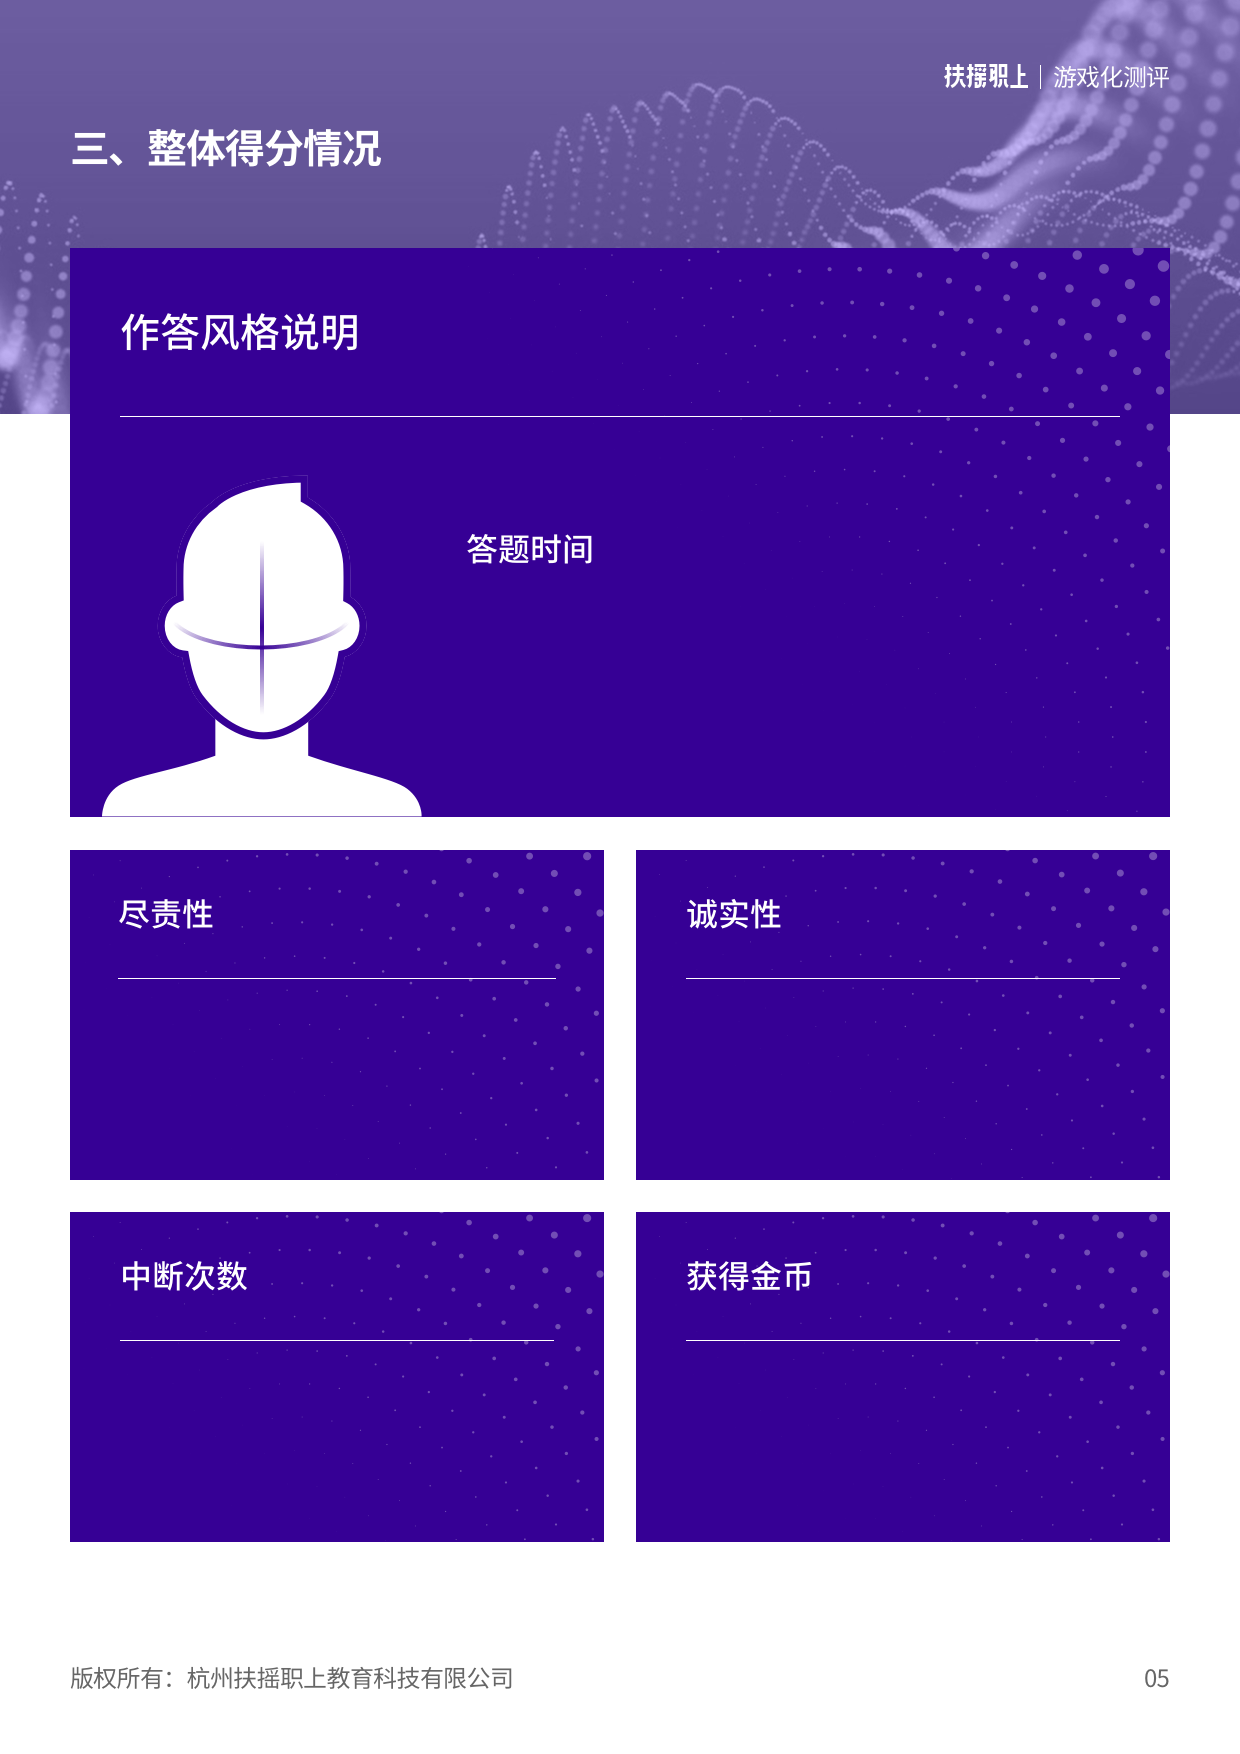
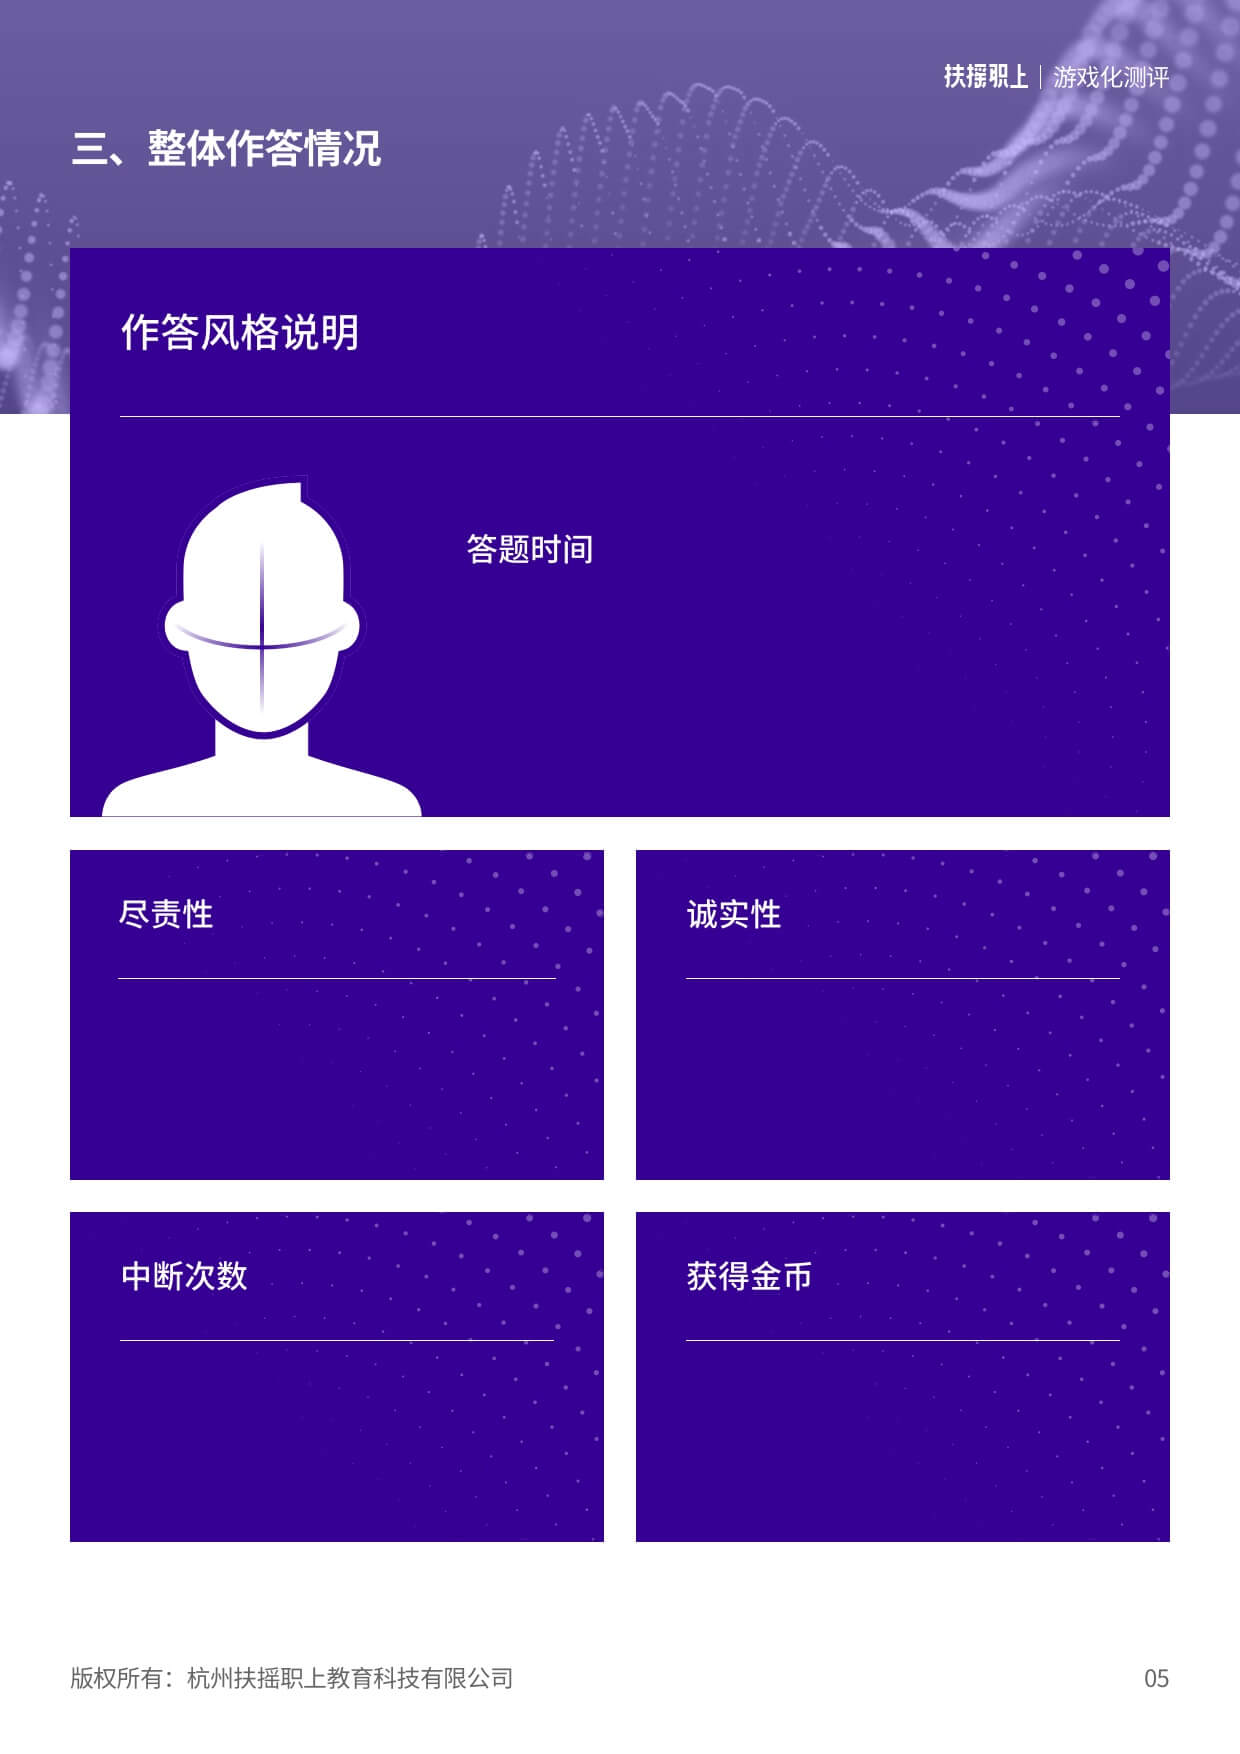
bugfix: 107,114

diff --git a/pdf-personal/pdf.html b/pdf-personal/pdf.html
@@ -81,7 +81,7 @@
     
     <div class="analysis with-title">
       <div class="big-title">
-        三、整体得分情况
+        三、整体作答情况
       </div>
       <div class="score-sitution">
         整体得分情况
@@ -149,7 +149,7 @@
     </div>
     <div class="analysis with-title">
       <div class="big-title">
-        三、整体得分情况
+        三、整体作答情况
       </div>
       <div class="score-sitution">
         整体得分情况
@@ -995,7 +995,7 @@
       </div>
     </div>
     <div class="analysis">
-      <div th:each="child:${data.developmentSuggestions}" th:if="${childStat.index} == 2">
+      <div th:each="child:${data.developmentSuggestions}" th:if="${childStat.index} == 3">
         <div class="sug-one-dim" th:each="item:${child.suggestions}" th:if="${itemStat.index} > 1 and ${itemStat.index} < 4">
           <div class="sug-lil-dim">
             <span th:text="${item.name}">

diff --git a/pdf-1-4-complete/pdf.html b/pdf-1-4-complete/pdf.html
@@ -65,7 +65,7 @@
     
     <div class="analysis with-title">
       <div class="big-title">
-        三、整体得分情况
+        三、整体作答情况
       </div>
       <div class="score-sitution">
         整体得分情况
@@ -133,7 +133,7 @@
     </div>
     <div class="analysis with-title">
       <div class="big-title">
-        三、整体得分情况
+        三、整体作答情况
       </div>
       <div class="score-sitution">
         整体得分情况

diff --git a/pdf-1-4-personal/pdf.html b/pdf-1-4-personal/pdf.html
@@ -65,7 +65,7 @@
     
     <div class="analysis with-title">
       <div class="big-title">
-        三、整体得分情况
+        三、整体作答情况
       </div>
       <div class="score-sitution">
         整体得分情况
@@ -133,7 +133,7 @@
     </div>
     <div class="analysis with-title">
       <div class="big-title">
-        三、整体得分情况
+        三、整体作答情况
       </div>
       <div class="score-sitution">
         整体得分情况

diff --git a/pdf-1-4-recruitment/pdf.html b/pdf-1-4-recruitment/pdf.html
@@ -65,7 +65,7 @@
     
     <div class="analysis with-title">
       <div class="big-title">
-        三、整体得分情况
+        三、整体作答情况
       </div>
       <div class="score-sitution">
         整体得分情况
@@ -133,7 +133,7 @@
     </div>
     <div class="analysis with-title">
       <div class="big-title">
-        三、整体得分情况
+        三、整体作答情况
       </div>
       <div class="score-sitution">
         整体得分情况

diff --git a/pdf-1-4-training/pdf.html b/pdf-1-4-training/pdf.html
@@ -65,7 +65,7 @@
     
     <div class="analysis with-title">
       <div class="big-title">
-        三、整体得分情况
+        三、整体作答情况
       </div>
       <div class="score-sitution">
         整体得分情况
@@ -133,7 +133,7 @@
     </div>
     <div class="analysis with-title">
       <div class="big-title">
-        三、整体得分情况
+        三、整体作答情况
       </div>
       <div class="score-sitution">
         整体得分情况

diff --git a/pdf-complete/pdf.html b/pdf-complete/pdf.html
@@ -81,7 +81,7 @@
     
     <div class="analysis with-title">
       <div class="big-title">
-        三、整体得分情况
+        三、整体作答情况
       </div>
       <div class="score-sitution">
         整体得分情况
@@ -149,7 +149,7 @@
     </div>
     <div class="analysis with-title">
       <div class="big-title">
-        三、整体得分情况
+        三、整体作答情况
       </div>
       <div class="score-sitution">
         整体得分情况

diff --git a/pdf-recruitment/pdf.html b/pdf-recruitment/pdf.html
@@ -81,7 +81,7 @@
     
     <div class="analysis with-title">
       <div class="big-title">
-        三、整体得分情况
+        三、整体作答情况
       </div>
       <div class="score-sitution">
         整体得分情况
@@ -149,7 +149,7 @@
     </div>
     <div class="analysis with-title">
       <div class="big-title">
-        三、整体得分情况
+        三、整体作答情况
       </div>
       <div class="score-sitution">
         整体得分情况

diff --git a/pdf-training/pdf.html b/pdf-training/pdf.html
@@ -81,7 +81,7 @@
     
     <div class="analysis with-title">
       <div class="big-title">
-        三、整体得分情况
+        三、整体作答情况
       </div>
       <div class="score-sitution">
         整体得分情况
@@ -149,7 +149,7 @@
     </div>
     <div class="analysis with-title">
       <div class="big-title">
-        三、整体得分情况
+        三、整体作答情况
       </div>
       <div class="score-sitution">
         整体得分情况

diff --git a/pdf-1-4-training/static/pdf.css b/pdf-1-4-training/static/pdf.css
@@ -261,6 +261,8 @@ ul li {
 .page-footer .page-footer-left {
   display: inline-table;
   line-height: 16px;
+  /* todo */
+  font-weight: 300;
   letter-spacing: 0.5px;
   font-size: 15px;
   color: #666666;

diff --git a/pdf-1-4-personal/static/pdf.css b/pdf-1-4-personal/static/pdf.css
@@ -261,6 +261,7 @@ ul li {
 .page-footer .page-footer-left {
   display: inline-table;
   line-height: 16px;
+  font-weight: 300;
   letter-spacing: 0.5px;
   font-size: 15px;
   color: #666666;

diff --git a/pdf-1-4-recruitment/static/pdf.css b/pdf-1-4-recruitment/static/pdf.css
@@ -261,6 +261,7 @@ ul li {
 .page-footer .page-footer-left {
   display: inline-table;
   line-height: 16px;
+  font-weight: 300;
   letter-spacing: 0.5px;
   font-size: 15px;
   color: #666666;

diff --git a/pdf-complete/static/pdf.css b/pdf-complete/static/pdf.css
@@ -262,7 +262,9 @@ ul li {
   display: inline-table;
   line-height: 16px;
   letter-spacing: 0.5px;
+  font-weight: 300;
   font-size: 15px;
+  font-weight: 300;
   color: #666666;
 }
 
